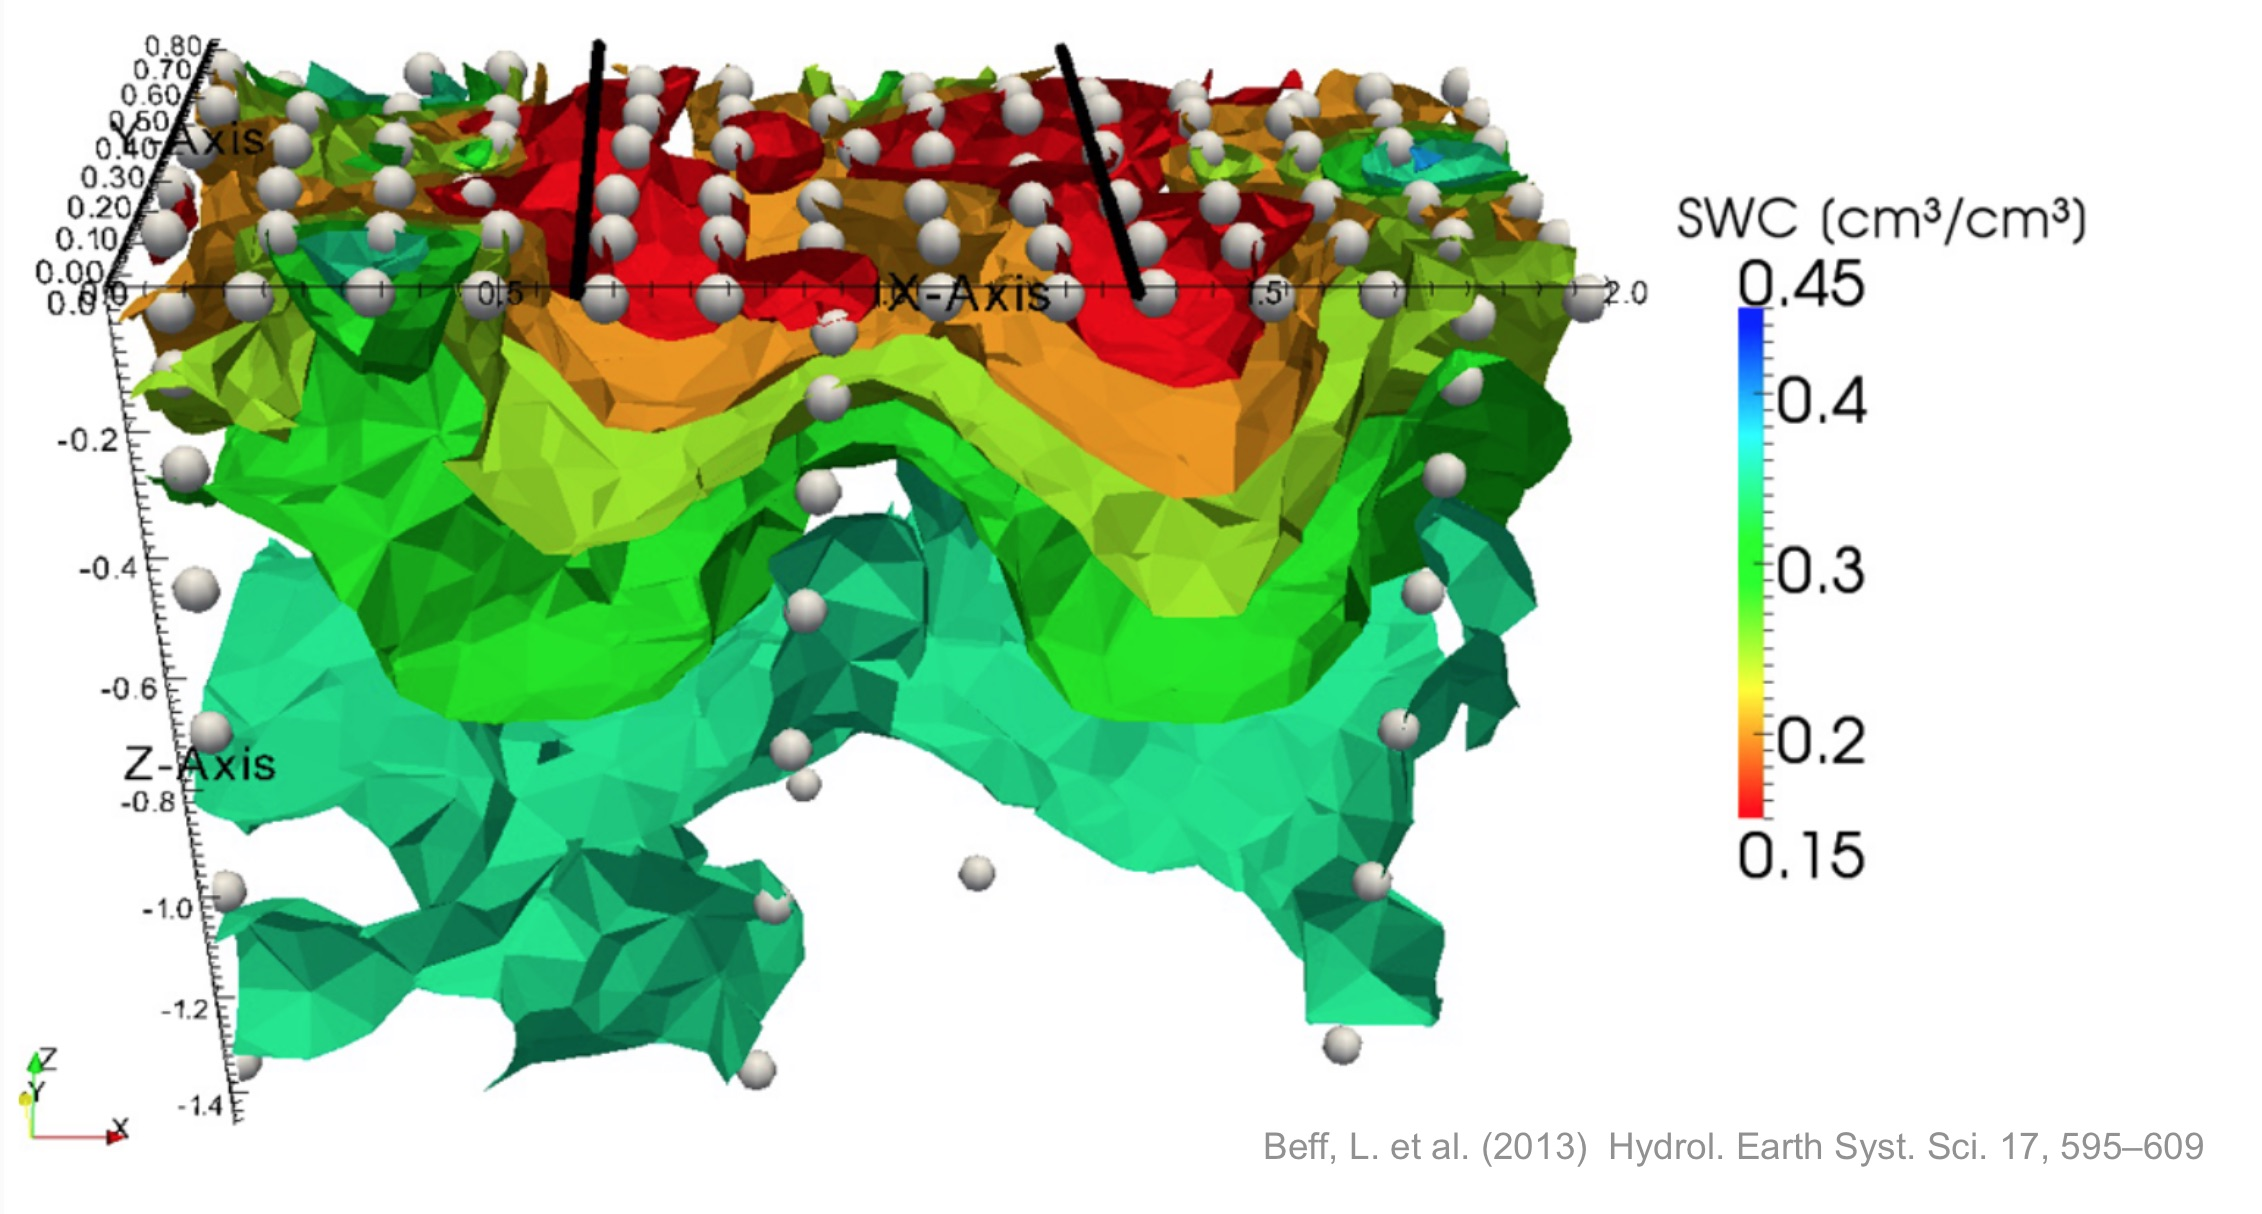
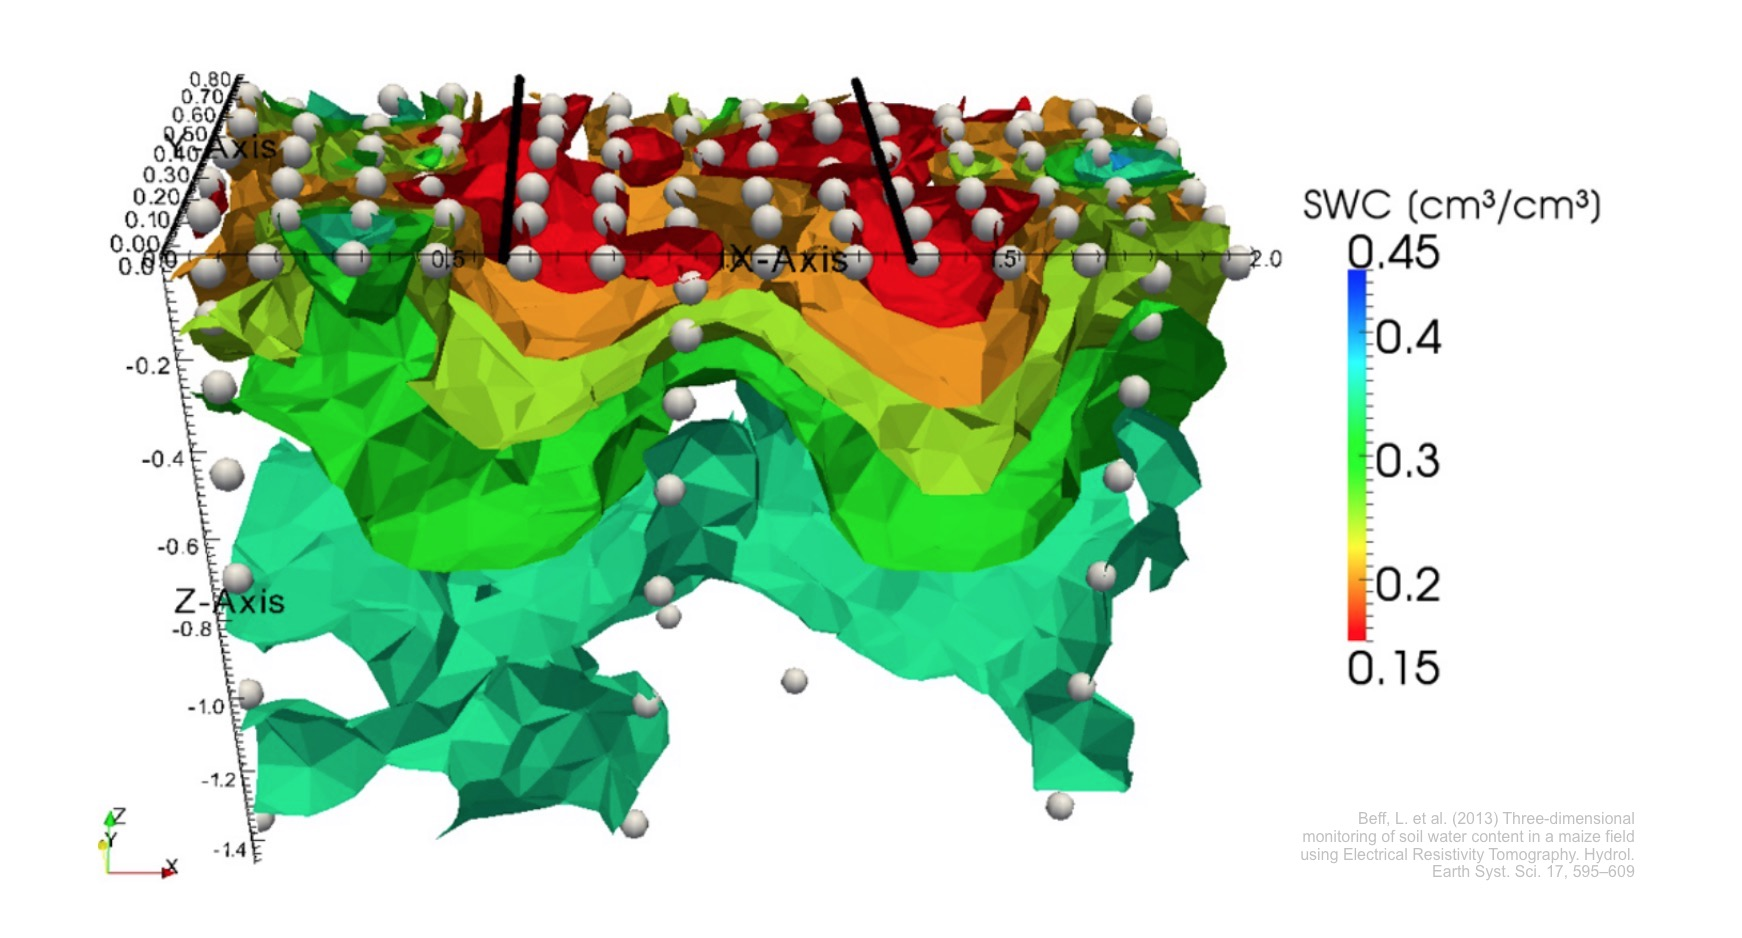
update

diff --git a/PITCHME.md b/PITCHME.md
@@ -619,9 +619,10 @@ LAUZ = Length of Apical Unbranched Zone
 
 +++
 
-#### Water loss is an obligatory cost
+## Water loss is an obligatory cost
 
-`$$ maize production = 10^4 l / year$$`
+`$$ Production_{maize} = 10^4 l / year$$`
+
 
 10% only used for the plant growth and development
 
@@ -635,7 +636,7 @@ LAUZ = Length of Apical Unbranched Zone
 
 `$$\Psi_{atmosphere} <<< \Psi_{leaf} < \Psi_{root} < \Psi_{soil}$$`
 
-- Activelly regulated in mutliple sites
+- Activelly regulated in multiple sites
 	- leaf
 	- xylem vessels
 	- root
@@ -706,7 +707,7 @@ LAUZ = Length of Apical Unbranched Zone
 
 +++
 
-#### Water channel (aquaporins) are precisely localed
+#### Aquaporins are precisely located
 
 ![](img/aqp_localisation.jpg)
 
@@ -752,9 +753,23 @@ LAUZ = Length of Apical Unbranched Zone
 
 ## Water uptake dynamics
 
+
 +++
 
-### Water uptake follows a downward movement
+#### Neutron Radiography + Deuterated water
+
+![](img/carminati.jpg)
+
++++
+
+#### Electrical Resistivity Tomography
+
+![](img/beff.jpg)
+
+
++++
+
+#### Light transmission imaging
 
 ![](img/water-uptake-1.jpg)
 
